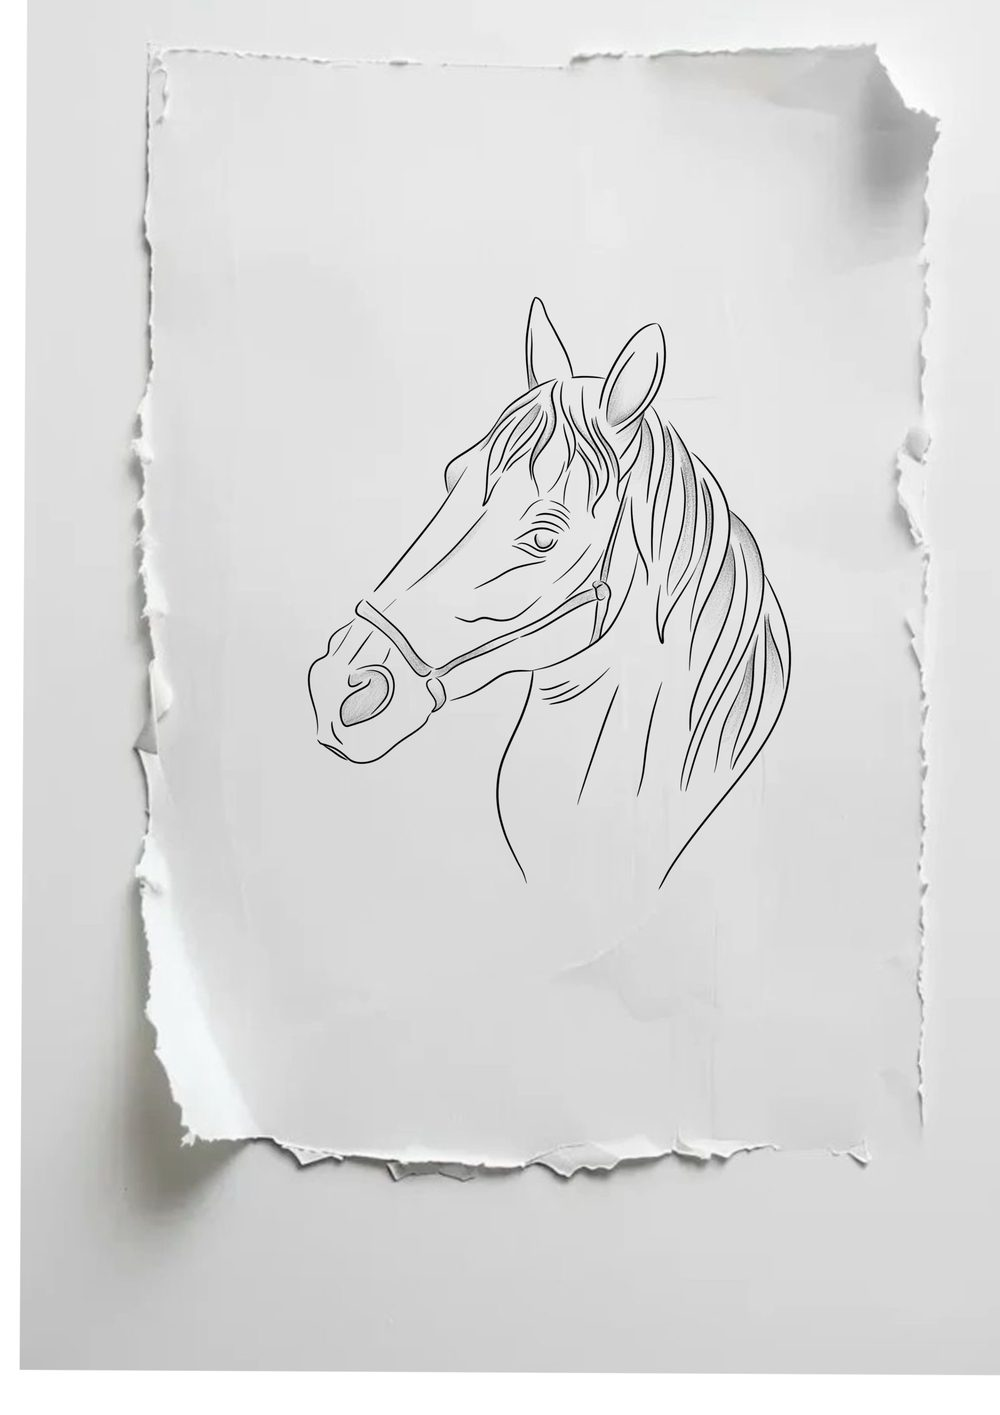
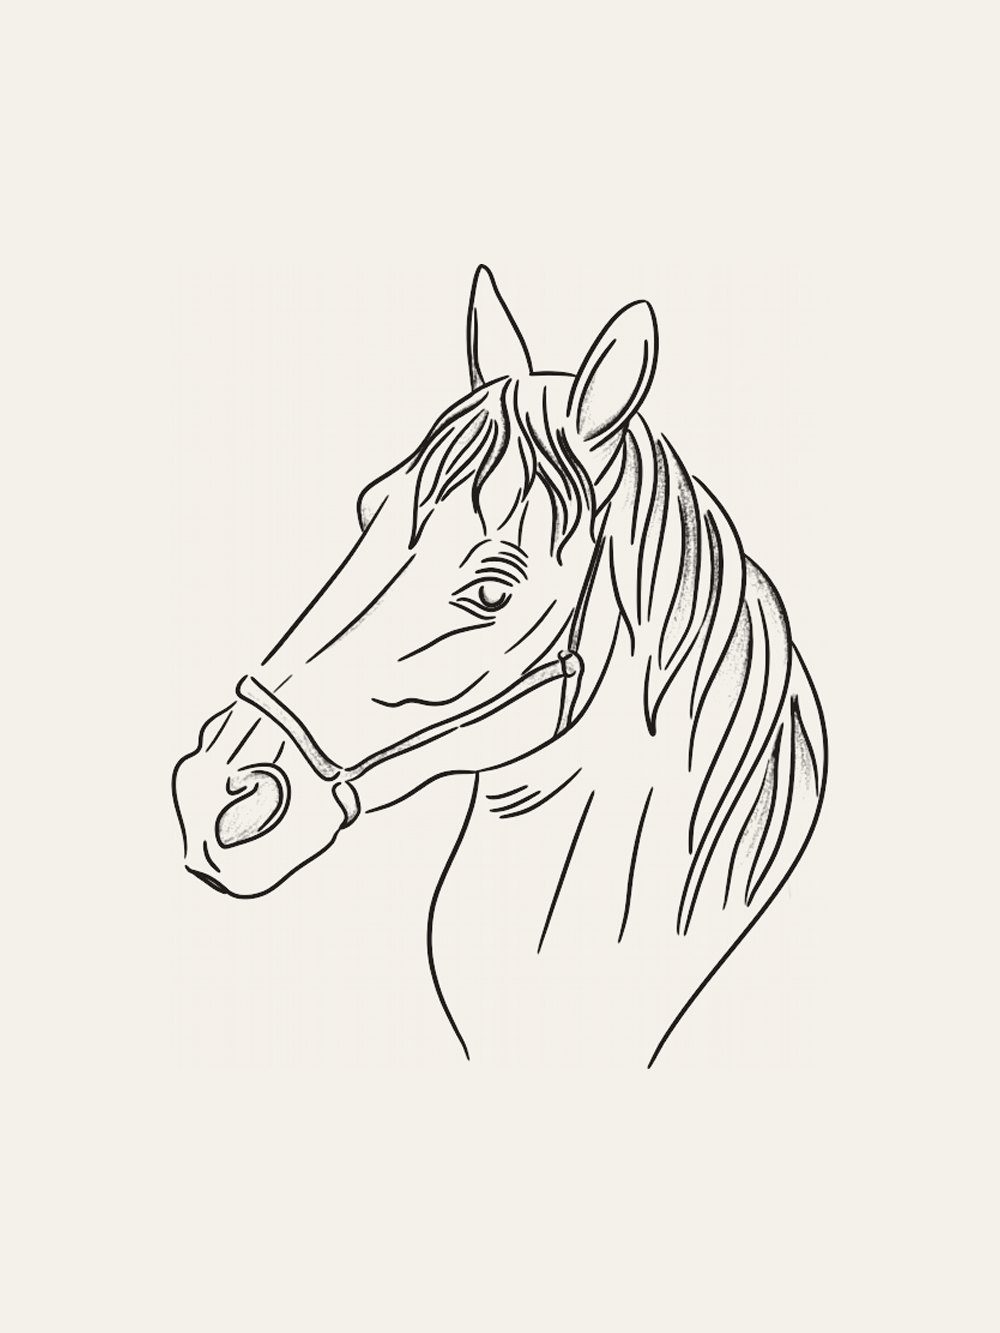
Flashes: clean scans on uniform paper, without torn page and shadows
Claude-Session: https://claude.ai/code/session_012P347y8pdnvFAzDPimBaVW

diff --git a/site/index.html b/site/index.html
@@ -370,7 +370,7 @@ textarea{min-height:110px;resize:vertical;line-height:1.55}
 .sheet{background:#e9e3da;padding:14px;transform:rotate(1.6deg);box-shadow:0 30px 70px rgba(0,0,0,.5);transition:transform .8s var(--ease)}
 .sheet:hover{transform:rotate(0) scale(1.01)}
 .flashes{display:grid;grid-template-columns:repeat(3,minmax(0,1fr));gap:8px}
-.flashes button{display:block;padding:0;border:0;background:#e9e3da;cursor:zoom-in;aspect-ratio:1/1.414;overflow:hidden;border-radius:var(--r);box-shadow:0 10px 26px rgba(0,0,0,.25)}
+.flashes button{display:block;padding:0;border:0;background:#f4f0ea;cursor:zoom-in;aspect-ratio:3/4;overflow:hidden;border-radius:var(--r);box-shadow:0 10px 26px rgba(0,0,0,.25)}
 .flashes img{width:100%;height:100%;object-fit:cover;display:block;transition:transform .6s var(--ease)}
 .flashes button:hover img{transform:scale(1.04)}
 .flashes button:focus-visible{outline:2px solid var(--bone);outline-offset:3px}
@@ -385,10 +385,11 @@ textarea{min-height:110px;resize:vertical;line-height:1.55}
   .flashes{grid-template-columns:repeat(4,minmax(0,1fr));gap:14px}
 }
 @media (min-width:1400px){.flashes{grid-template-columns:repeat(6,minmax(0,1fr))}}
-@media (min-width:901px){.flash-cap p{max-width:none}.faq{max-width:none}}
+@media (min-width:901px){div.flash-cap p{max-width:none}.faq{max-width:none}}
 .flash-cap{margin-bottom:22px}
 .flash-cap h3{font-size:calc(30px * var(--fs-big));margin-bottom:8px}
 .flash-cap p{color:var(--bone-2);font-weight:400;margin-bottom:18px;max-width:40ch}
+.flash-cap p a{white-space:nowrap}
 .faq{max-width:900px;border-top:1px solid var(--line);margin-bottom:80px}
 .legal{max-width:68ch;margin-bottom:80px;display:flex;flex-direction:column;gap:26px}
 .legal h3{font-size:calc(22px * var(--fs));margin-bottom:6px}
@@ -852,9 +853,9 @@ $('#lbBook').onclick = () => { $('#lb').hidden = true; document.body.style.overf
   if(lbKind === 'flash'){ setMode('flash'); const f = $('#flash'); f.value = `מדף פלאשים מס׳ ${lbI+1}: `; renderTicket(); location.hash = '#talk'; setTimeout(() => { f.focus({preventScroll:true}); f.setSelectionRange(f.value.length, f.value.length); }, 500); return; }
   setMode('idea'); prefill(inspired(lbI)); location.hash = '#talk'; };
 /* ---------- flashes (sheets Adi sent) ---------- */
-const FLASHES = [...Array.from({length:11}, (_, i) => { const n = String(i+1).padStart(2,'0'); return {src:`img/f/f${n}.jpg`, th:`img/f/t${n}.jpg`}; }), {src:'img/076.jpg', th:'img/t/076.jpg'}]
+const FLASHES = [...Array.from({length:12}, (_, i) => { const n = String(i+1).padStart(2,'0'); return {src:`img/f/f${n}.jpg`, th:`img/f/t${n}.jpg`}; })]
   .map((f, i) => ({...f, alt:`דף פלאשים מס׳ ${i+1}`}));
-$('#flashes').innerHTML = FLASHES.map((f, i) => `<button type="button" data-f="${i}" aria-label="פתיחת ${f.alt}"><img src="${f.th}" alt="" loading="lazy" width="360" height="509"></button>`).join('');
+$('#flashes').innerHTML = FLASHES.map((f, i) => `<button type="button" data-f="${i}" aria-label="פתיחת ${f.alt}"><img src="${f.th}" alt="" loading="lazy" width="360" height="480"></button>`).join('');
 $('#flashes').addEventListener('click', e => { const b = e.target.closest('[data-f]'); if(b) openLb(+b.dataset.f, FLASHES, 'flash'); });
 
 /* ---------- helpers ---------- */
